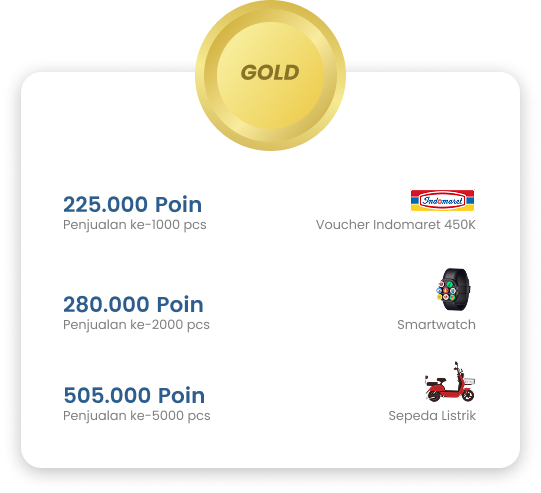
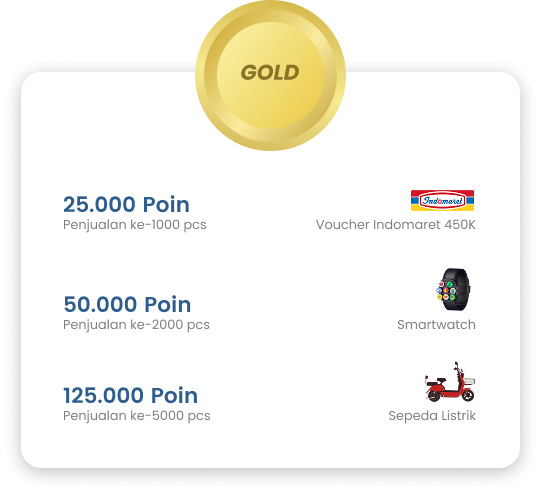
bug fix penambahan point

Changed region(s): [[0.1183, 0.7606, 0.3845, 0.8215], [0.1183, 0.5781, 0.3845, 0.6389], [0.1183, 0.3955, 0.3845, 0.4564]]

diff --git a/app/Models/User.php b/app/Models/User.php
@@ -95,11 +95,11 @@ class User extends Authenticatable implements FilamentUser, HasMedia
 
         if ($points < 6250) {
             return 'Bronze';
-        } elseif ($points >= 6250 && $points <= 213750) {
+        } elseif ($points >= 6250 && $points <= 18750) {
             return 'Silver';
-        } elseif ($points > 213750 && $points <= 505000) {
+        } elseif ($points > 18750 && $points <= 125000) {
             return 'Gold';
-        } elseif ($points > 505000 && $points <= 10930000) {
+        } elseif ($points > 125000 && $points <= 375000) {
             return 'Platinum';
         } else {
             return 'Platinum';
@@ -113,12 +113,12 @@ class User extends Authenticatable implements FilamentUser, HasMedia
 
         if ($points < 6250) {
             return 6250;
-        } elseif ($points >= 6250 && $points <= 213750) {
-            return 213750;
-        } elseif ($points > 213750 && $points <= 505000) {
-            return 505000;
-        } elseif ($points > 505000 && $points <= 10930000) {
-            return 10930000;
+        } elseif ($points >= 6250 && $points <= 18750) {
+            return 18750;
+        } elseif ($points > 18750 && $points <= 125000) {
+            return 125000;
+        } elseif ($points > 125000 && $points <= 375000) {
+            return 375000;
         } else {
             return $points;
         }
@@ -140,14 +140,14 @@ class User extends Authenticatable implements FilamentUser, HasMedia
 
         if ($points < 6250) {
             return 'img/tier/silver.png'; // Path ke logo Silver
-        } elseif ($points >= 6250 && $points <= 213750) {
+        } elseif ($points >= 6250 && $points <= 18750) {
             return 'img/tier/gold.png'; // Path ke logo Gold
-        } elseif ($points > 213750 && $points <= 505000) {
+        } elseif ($points > 18750 && $points <= 125000) {
             return 'img/tier/platinum.png'; // Path ke logo Platinum
-        } elseif ($points > 505000 && $points <= 10930000) {
+        } elseif ($points > 125000 && $points <= 375000) {
             return 'img/tier/platinum.png'; // Path ke logo Diamond
         } else {
-            return 'images/unranked.png'; // Path ke logo Unranked
+            return 'img/tier/platinum-1.png'; // Path ke logo Unranked
         }
     }
 
@@ -158,6 +158,7 @@ class User extends Authenticatable implements FilamentUser, HasMedia
             'Bronze' => 'bronze.png',
             'Silver' => 'silver.png',
             'Gold' => 'gold.png',
+            'Platinum' => 'platinum.png',
             default => 'bronze.png'
         };
     }

diff --git a/app/Filament/Pages/SalesForm.php b/app/Filament/Pages/SalesForm.php
@@ -29,6 +29,7 @@ class SalesForm extends Page implements Forms\Contracts\HasForms
     {
         $this->user_id = $user;
     }
+    public bool $isLoading = false;
 
     public function getTitle(): string
     {
@@ -84,8 +85,7 @@ class SalesForm extends Page implements Forms\Contracts\HasForms
             ['points'  => 0]
         );
 
-        $currentPoints = $pointRecord->points;
-        $pointsPerSale = $this->calculatePointsPerSale($currentPoints);
+        $pointsPerSale = $this->calculatePointsPerSale();
 
         $pointsEarned = $quantity * $pointsPerSale;
 
@@ -96,7 +96,7 @@ class SalesForm extends Page implements Forms\Contracts\HasForms
         ]);
 
         $pointRecord->update([
-            'points' => $currentPoints + $pointsEarned
+            'points' => $pointRecord->points + $pointsEarned
         ]);
 
         Notification::make()
@@ -106,26 +106,13 @@ class SalesForm extends Page implements Forms\Contracts\HasForms
             ->send();
 
         $this->form->fill([]);
+        $this->isLoading = false;
+
+        $this->redirect(route('filament.pages.sales-overview'));
     }
 
-    protected function calculatePointsPerSale($currentPoints)
+    protected function calculatePointsPerSale()
     {
-        if ($currentPoints < 6250) {
-            return 25;
-        } elseif ($currentPoints < 126250) {
-            return 30;
-        } elseif ($currentPoints < 213750) {
-            return 35;
-        } elseif ($currentPoints < 225000) {
-            return 45;
-        } elseif ($currentPoints < 280000) {
-            return 55;
-        } elseif ($currentPoints < 505000) {
-            return 75;
-        } elseif ($currentPoints < 930000) {
-            return 85;
-        } else {
-            return 200;
-        }
+        return 25;
     }
 }

diff --git a/resources/views/dashboard.blade.php b/resources/views/dashboard.blade.php
@@ -70,6 +70,16 @@
                                 </div>
                             </div>
                             @endif
+                            @if ($user->getTier() == 'Platinum' )
+                            <div class="flex space-x-2">
+                                <div class="overflow-hidden items-center w-7 h-7 rounded-full md:w-10 md:h-10">
+                                    <img src="{{asset('img/tier/platinum.png')}}" class="object-cover w-full h-full" alt="tier">
+                                </div>
+                                <div class="items-center self-center text-[#5B5959] italic font-bold md:text-xl uppercase">
+                                    {{$user->getTier()}}
+                                </div>
+                            </div>
+                            @endif
                             <div class="py-5 text-xl font-bold text-black line-clamp-2">
                                 {{Auth()->user()->name}}
                             </div>

diff --git a/routes/web.php b/routes/web.php
@@ -4,6 +4,7 @@ use Illuminate\Support\Facades\Route;
 use App\Http\Controllers\GeneralController;
 use App\Http\Controllers\ProfileController;
 use App\Filament\Pages\SalesForm;
+use App\Filament\Pages\SalesOverview;
 
 Route::get('/', [GeneralController::class, 'index'])->name('home');
 Route::get('/products', [GeneralController::class, 'products'])->name('products');
@@ -13,6 +14,7 @@ Route::get('/aboutus', [GeneralController::class, 'aboutus'])->name('aboutus');
 
 // filament custom
 Route::get('/filament/sales-form/{user}', [SalesForm::class, '__invoke'])->name('filament.pages.sales-form');
+Route::get('/sales-overview', SalesOverview::class)->name('filament.pages.sales-overview');
 
 
 Route::get('/dashboard', [GeneralController::class, 'dashboard'])->middleware(['auth', 'verified'])->name('dashboard');

diff --git a/resources/views/filament/pages/sales-form.blade.php b/resources/views/filament/pages/sales-form.blade.php
@@ -1,8 +1,9 @@
 <x-filament::page>
     <form wire:submit.prevent="submit" class="space-y-6">
         {{ $this->form }}
-        <x-filament::button type="submit">
-            Simpan Penjualan
+        <x-filament::button type="submit" wire:loading.attr="disabled">
+            <span wire:loading.remove>Simpan Penjualan</span>
+            <span wire:loading>Menyimpan...</span>
         </x-filament::button>
     </form>
 </x-filament::page>
